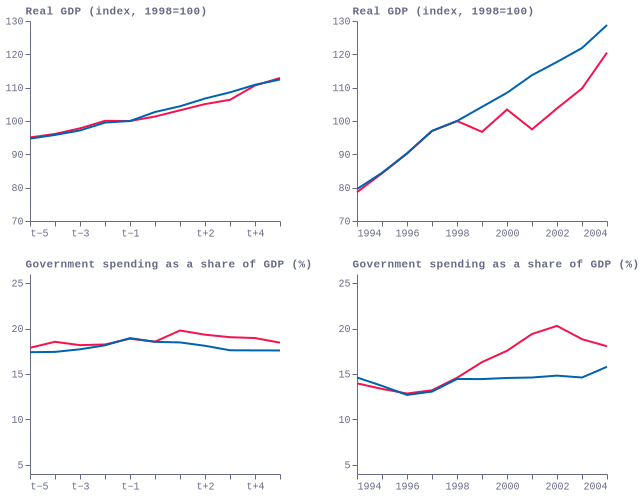
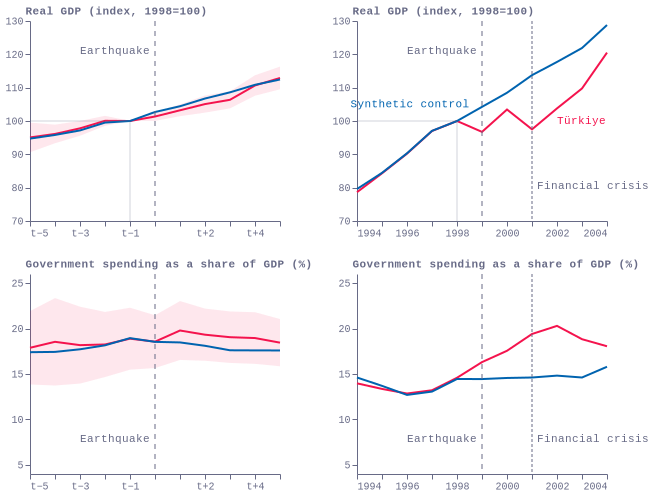
adds local o21

diff --git a/articles/what-is-the-likely-impact-of-the-earthquakes-on-economic-growth-in-t%C3%BCrkiye/visualisation/fig1_earthquake.html b/articles/what-is-the-likely-impact-of-the-earthquakes-on-economic-growth-in-t%C3%BCrkiye/visualisation/fig1_earthquake.html
@@ -1,0 +1,15 @@
+<head>
+    <script src="https://cdn.jsdelivr.net/npm/vega@5"></script>
+    <script src="https://cdn.jsdelivr.net/npm/vega-lite@5"></script>
+    <script src="https://cdn.jsdelivr.net/npm/vega-embed@6"></script>
+</head>
+
+<body>
+    <div id="view" style="overflow: hidden !important;"></div>
+    <script>
+        vegaEmbed(
+            '#view',
+            'https://raw.githubusercontent.com/EconomicsObservatory/ECOvisualisations/main/articles/what-is-the-likely-impact-of-the-earthquakes-on-economic-growth-in-t%C3%BCrkiye/visualisation/fig1_earthquake.json'
+        );
+    </script>
+</body>

diff --git a/articles/what-is-the-likely-impact-of-the-earthquakes-on-economic-growth-in-t%C3%BCrkiye/README.md b/articles/what-is-the-likely-impact-of-the-earthquakes-on-economic-growth-in-t%C3%BCrkiye/README.md
@@ -1,3 +1,3 @@
-### fig1_earthquake_local
-!["fig1_earthquake_local"](visualisation/fig1_earthquake_local.png "fig1_earthquake_local")
+### fig1_earthquake
+!["fig1_earthquake"](visualisation/fig1_earthquake.png "fig1_earthquake")
 
